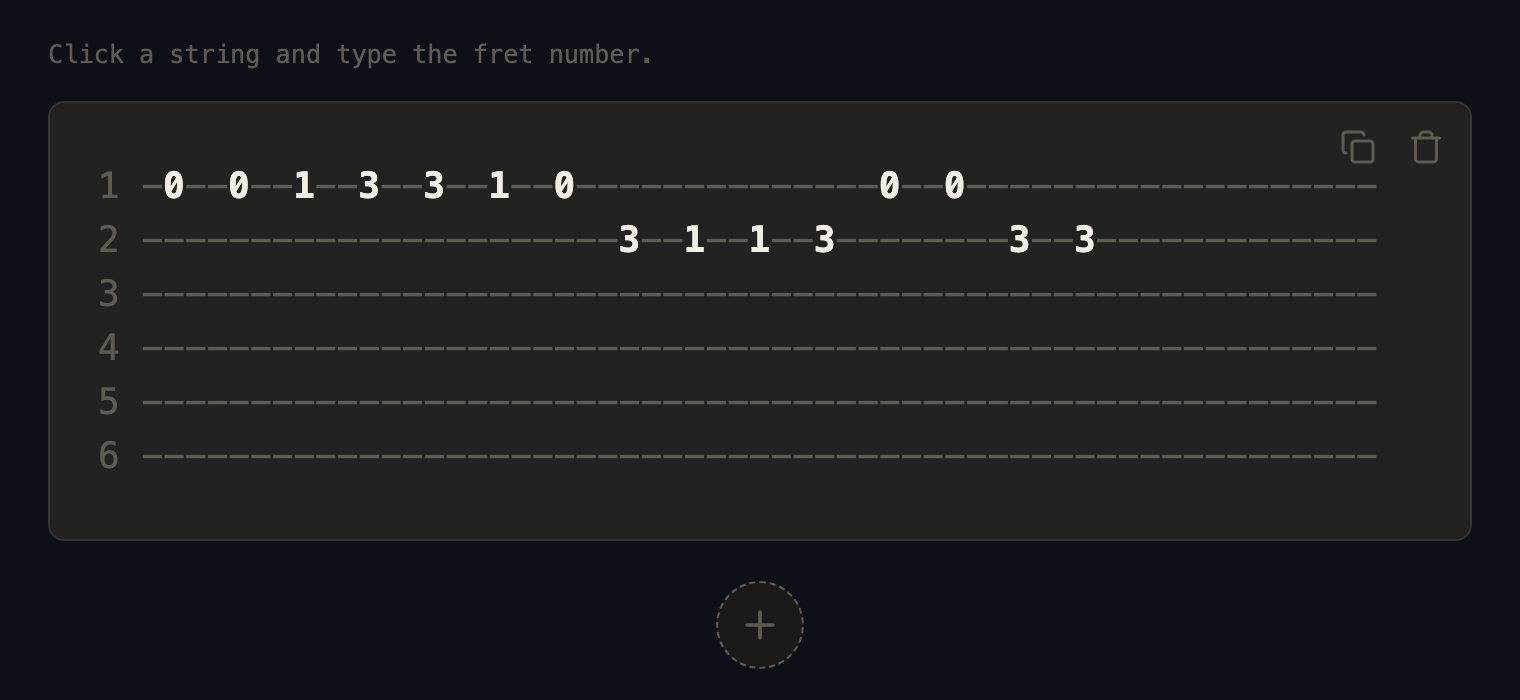
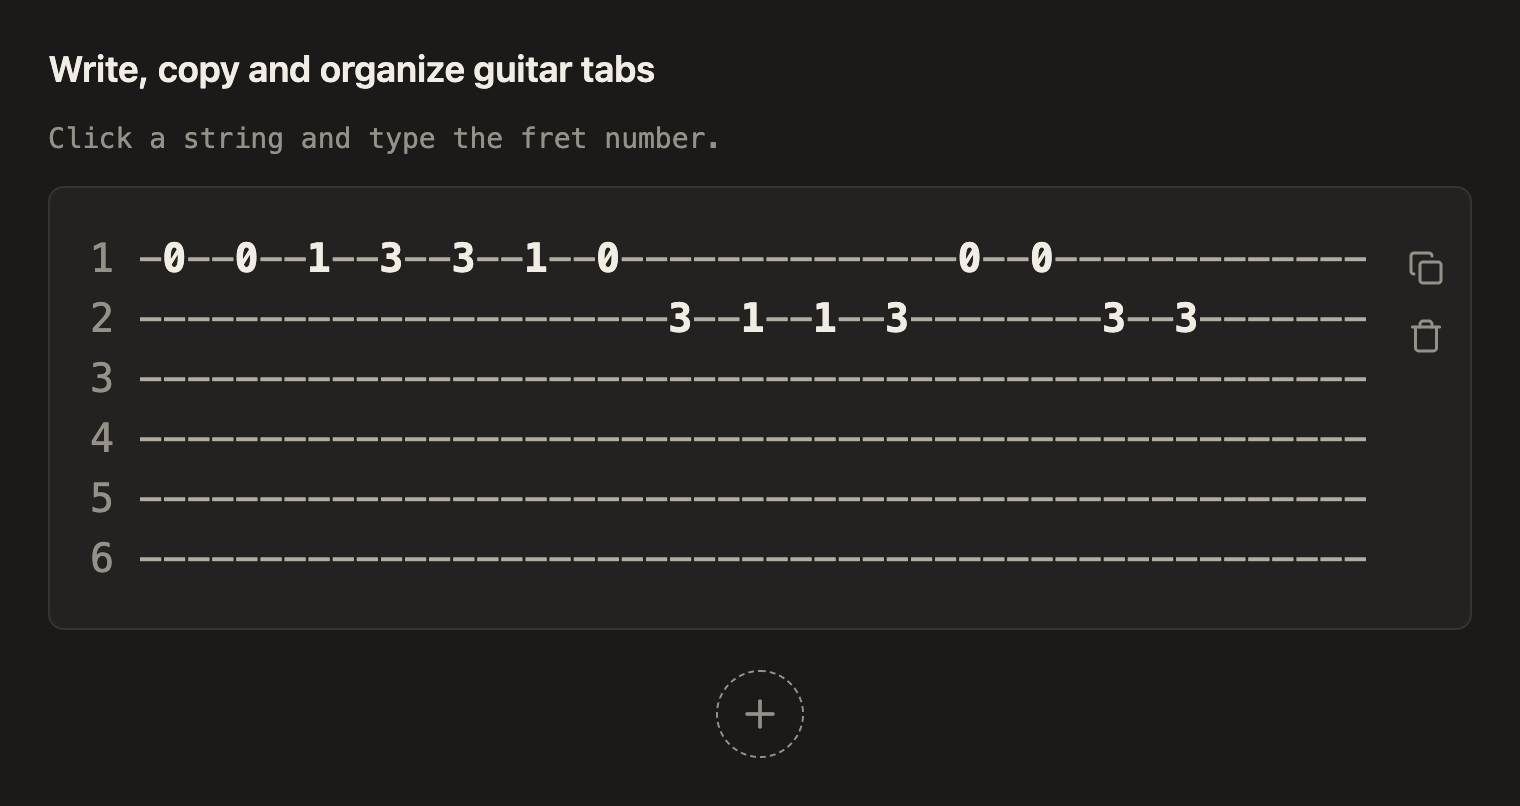
docs: refresh README with real feature screenshots

diff --git a/docs/img/readme-example.html b/docs/img/readme-example.html
@@ -1,32 +1,73 @@
 <!doctype html>
-<!-- Source of the README screenshots (example-light.png, example-dark.png). Regenerate from the repo root with:
-     chrome --headless --hide-scrollbars --allow-file-access-from-files --virtual-time-budget=3000 \
-       --force-device-scale-factor=2 --window-size=760,350 \
-       --screenshot=docs/img/example-light.png "file://$PWD/docs/img/readme-example.html?theme=light"
-     (and the same with dark) -->
+<!-- Rendered by scripts/readme-screenshots.mjs using the actual component. -->
 <html lang="en">
 <head>
 <meta charset="utf-8">
+<meta name="viewport" content="width=device-width, initial-scale=1">
+<title>ascii-tabs README screenshots</title>
 <script type="module" src="../../ascii-tabs.js"></script>
 <style>
-  body { margin: 0; padding: 20px 24px; font-family: system-ui, sans-serif; }
-  ascii-tabs { font-size: 18px; }
+  body { margin: 0; font-family: system-ui, sans-serif; }
+  .capture { box-sizing: border-box; width: 760px; padding: 24px; background: #fdfaf5; color: #1a1a1a; }
+  .capture[data-theme="dark"] { background: #1b1a18; color: #f1ede4; }
+  h2 { margin: 0 0 16px; font-size: 18px; font-weight: 600; }
+  ascii-tabs + h2 { margin-top: 24px; }
+  #melody { --ascii-tabs-font-size: 20px; }
 </style>
 </head>
 <body>
-<ascii-tabs>
-  <pre>
-1 -0--0--1--3--3--1--0--------------0--0-------
-2 ----------------------3--1--1--3--------3--3-
-3 ---------------------------------------------
-4 ---------------------------------------------
-5 ---------------------------------------------
-6 ---------------------------------------------</pre>
-</ascii-tabs>
-<script>
+<section class="capture" id="editor">
+  <h2>Write, copy and organize guitar tabs</h2>
+  <ascii-tabs id="melody"></ascii-tabs>
+</section>
+<section class="capture" id="notation">
+  <h2>Note names and adjustable spacing</h2>
+  <ascii-tabs id="letters" notation="letters" labels="notes" readonly>
+    <ascii-tabs-notation></ascii-tabs-notation>
+    <ascii-tabs-spacing></ascii-tabs-spacing>
+    <ascii-tabs-sheet><ascii-tabs-copy></ascii-tabs-copy></ascii-tabs-sheet>
+  </ascii-tabs>
+  <h2>Solfege with a Spanish interface</h2>
+  <ascii-tabs id="solfege" notation="solfege" lang="es" labels="notes" readonly>
+    <ascii-tabs-notation></ascii-tabs-notation>
+    <ascii-tabs-sheet><ascii-tabs-copy></ascii-tabs-copy></ascii-tabs-sheet>
+  </ascii-tabs>
+</section>
+<section class="capture" id="styles">
+  <h2>Per-note colors, bold and parentheses</h2>
+  <ascii-tabs id="styled" labels="notes"></ascii-tabs>
+</section>
+<section class="capture" id="initial">
+  <h2>Render structured data as a guitar tab</h2>
+  <ascii-tabs id="data"></ascii-tabs>
+</section>
+<script type="module">
+  await customElements.whenDefined('ascii-tabs');
   const theme = new URLSearchParams(location.search).get('theme') || 'light';
-  document.querySelector('ascii-tabs').setAttribute('theme', theme);
-  document.body.style.background = theme === 'dark' ? '#0d1117' : '#ffffff';
+  document.querySelectorAll('.capture').forEach(el => el.dataset.theme = theme);
+  document.querySelectorAll('ascii-tabs').forEach(el => el.setAttribute('theme', theme));
+  const melody = [0, 0, 1, 3, 3, 1, 0, null, null, null, null, 0, 0, null, null].map(
+    (fret, i) => [fret, ({ 7: 3, 8: 1, 9: 1, 10: 3, 13: 3, 14: 3 })[i] ?? null, null, null, null, null]
+  );
+  document.querySelector('#melody').value = [melody];
+  const scale = [0, 2, 3, 5, 7, 8, 10, 12].map(fret => [fret, null, null, null, null, null]);
+  document.querySelector('#letters').value = [scale];
+  document.querySelector('#solfege').value = [scale];
+  document.querySelector('#styled').value = [[
+    [{ fret: 0, color: '#b91c1c', bold: true }, null, null, null, 3, null],
+    [{ fret: 2, color: '#b91c1c', bold: true }, null, null, 2, null, null],
+    [{ fret: 3, color: 'royalblue', bold: true }, null, 0, null, null, null],
+    [{ fret: 5, bold: false }, null, null, null, 2, null],
+    [{ fret: 7, color: 'royalblue', parenthesized: true }, null, null, 0, null, null],
+    [{ fret: 5, bold: false, parenthesized: true }, null, 0, null, null, null],
+  ]];
+  document.querySelector('#data').value = [[
+    [null, null, 2, null, 0, null],
+    [null, null, null, 2, null, null],
+    [null, 3, null, null, null, null],
+    [null, null, 2, null, 0, null],
+  ]];
+  document.body.dataset.ready = 'true';
 </script>
 </body>
 </html>

diff --git a/README.md b/README.md
@@ -1,6 +1,14 @@
 # ascii-tabs
 
-A zero-dependency web component for writing and showing guitar tabs as plain ASCII text.
+A zero-dependency web component for editing and displaying guitar tablature, with plain ASCII import and export.
+
+**▶ [Try the live demo](https://libasoles.github.io/ascii-tabs/)**: every feature, editable, in your browser.
+
+## See it in action
+
+### Edit and organize tabs
+
+Click a string and type a fret. Navigate with the keyboard, select and move groups of notes, and copy tabs as ASCII. Each Sheet has copy and delete controls, with an add button below.
 
 <a href="https://libasoles.github.io/ascii-tabs/">
   <picture>
@@ -9,18 +17,17 @@ A zero-dependency web component for writing and showing guitar tabs as plain ASC
   </picture>
 </a>
 
-That's one `<ascii-tabs>` element: click a string, type a fret, and copy the result as plain text:
+### Switch notation and spacing
 
-```
-1 -0--0--1--3--3--1--0--------------0--0-------
-2 ----------------------3--1--1--3--------3--3-
-3 ---------------------------------------------
-4 ---------------------------------------------
-5 ---------------------------------------------
-6 ---------------------------------------------
-```
+Show frets, letter names or solfege, and adjust spacing with optional built-in controls. Interface language and string labels are configurable independently.
 
-**▶ [Try the live demo](https://libasoles.github.io/ascii-tabs/)**: every feature, editable, in your browser.
+<img alt="Two rendered tabs: letter note names with notation and spacing controls, and solfege with Spanish controls" src="docs/img/feature-notation.png" width="760">
+
+### Style individual notes
+
+Highlight a melody with per-note colors and bold text, and put notes in parentheses. The screenshot below uses structured note data in the same editor.
+
+<img alt="Guitar tab with red and blue melody notes, bold and normal weight frets, and parenthesized notes" src="docs/img/feature-note-styles.png" width="760">
 
 Design notes: [spec](docs/spec-v0.1.md), [glossary](GLOSSARY.md), [ADRs](docs/adr). `tablatura.html` is the original standalone editor this library grew from.
 
@@ -56,16 +63,9 @@ Pass the content as data through the `value` property. This is the preferred way
 </script>
 ```
 
-renders as:
+The component renders that data as:
 
-```
-1 ------------
-2 -------3----
-3 -2--------2-
-4 ----2-------
-5 -0--------0-
-6 ------------
-```
+<img alt="Rendered editor for the initial value example, showing frets on strings 2 through 5 with copy, delete and add controls" src="docs/img/initial-value.png" width="760">
 
 `value` can be set before or after the element upgrades. Read it back the same way; every edit fires `change`:
 
